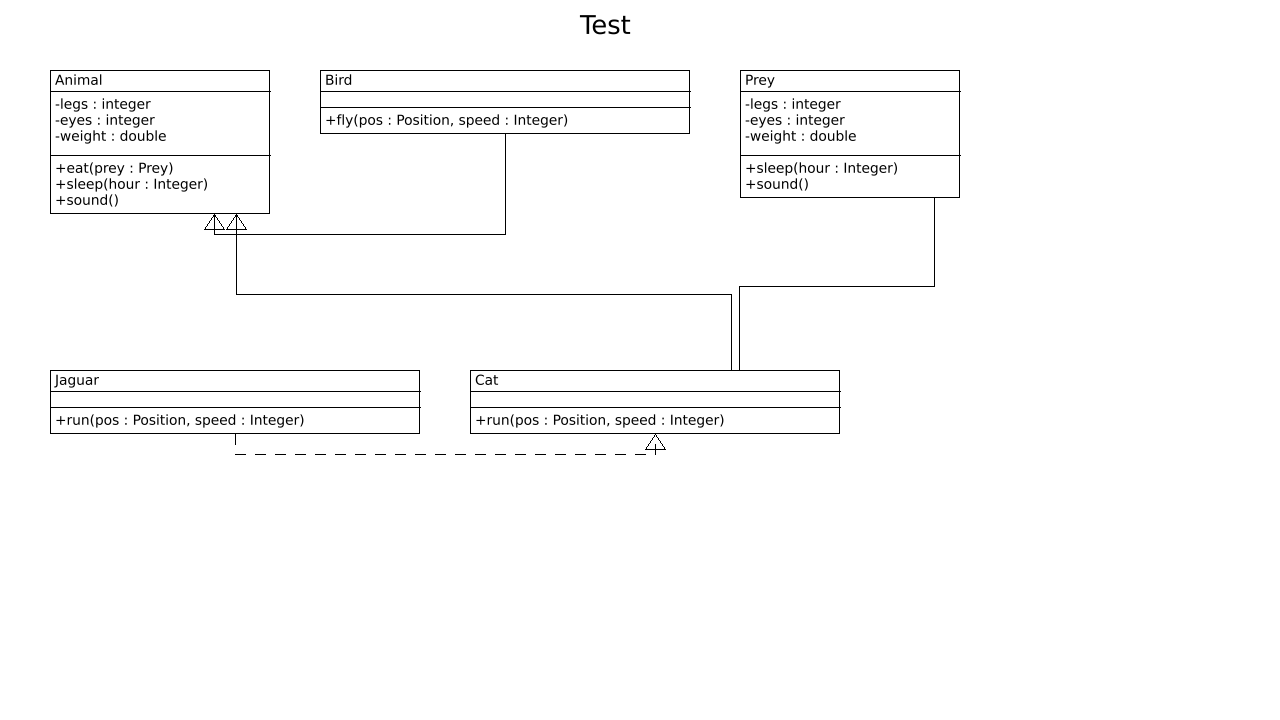
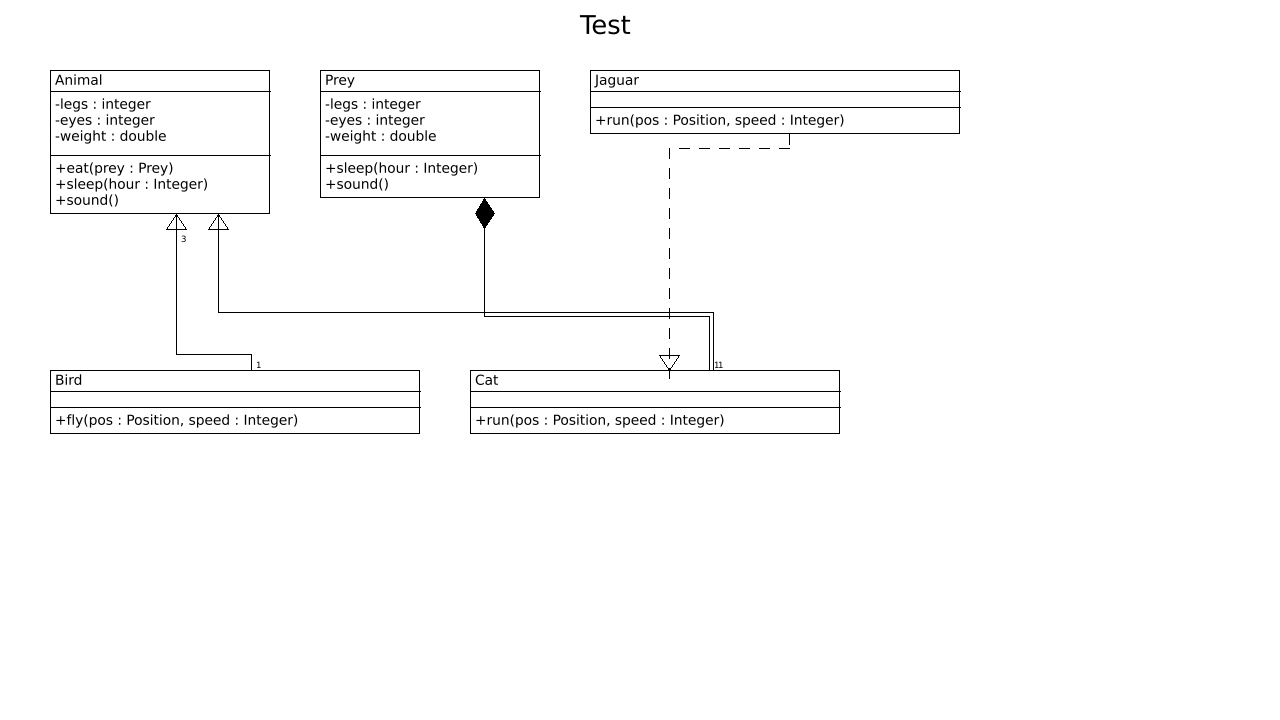
Added multiplicities

diff --git a/src/diagramVisualizer/mod.rs b/src/diagramVisualizer/mod.rs
@@ -76,8 +76,13 @@ enum Direction{
 
 fn drawAssociation(image: &mut RgbImage, association: parser::Relationship, classBoxes: Vec<ClassBox>)
 {
+    let font_data = Vec::from(include_bytes!("DejaVuSans.ttf") as &[u8]);
+    let font = FontCollection::from_bytes(font_data).unwrap().into_font().unwrap();
+
+    let mut size = 10.0;
+    let mut scale = Scale { x: size, y: size };
+
     let num = rand::thread_rng().gen_range(0, 100);
-    println!("{}", num);
     let mut fromBox: ClassBox = ClassBox::new("".to_string(), Point::new(0,0), 0, 0, 0, 0);
     let mut toBox: ClassBox = ClassBox::new("".to_string(), Point::new(0,0), 0, 0, 0, 0);
 
@@ -92,26 +97,33 @@ fn drawAssociation(image: &mut RgbImage, association: parser::Relationship, clas
                                 toBox.start.y + toBox.box_height);
 
     if(fromBox.start.y == toBox.start.y){
-        from = Point::new(fromBox.start.x +fromBox.box_width/2,
+        from = Point::new(fromBox.start.x + fromBox.box_width/2,
                                     fromBox.start.y + fromBox.box_height);
         to = Point::new(toBox.start.x + toBox.box_width/2 + num,
                                     toBox.start.y + toBox.box_height);
 
         if(fromBox.box_height > toBox.box_height){
+            draw_text_mut(image, Rgb([0u8, 0u8, 0u8]), from.x + 5, from.y + 5, scale, &font, &association.class.multiplicity.to_string());
+
             draw_line_segment_mut(image, (from.x as f32, from.y as f32),
                                     (from.x as f32, from.y as f32 + 20.0), Rgb([0u8, 0u8, 0u8]));
             draw_line_segment_mut(image, (from.x as f32, from.y as f32 + 20.0),
                                     (to.x as f32, from.y as f32 + 20.0), Rgb([0u8, 0u8, 0u8]));
             draw_line_segment_mut(image, (to.x as f32, from.y as f32 + 20.0),
                                     (to.x as f32, to.y as f32), Rgb([0u8, 0u8, 0u8]));
+            draw_text_mut(image, Rgb([0u8, 0u8, 0u8]), to.x + 5, to.y + 5, scale, &font, &association.to_class.multiplicity.to_string());
+
         }
         else{
+            draw_text_mut(image, Rgb([0u8, 0u8, 0u8]), from.x + 5, from.y + 5, scale, &font, &association.class.multiplicity.to_string());
+
             draw_line_segment_mut(image, (from.x as f32, from.y as f32),
                                     (from.x as f32, to.y as f32 + 20.0), Rgb([0u8, 0u8, 0u8]));
             draw_line_segment_mut(image, (from.x as f32, to.y as f32 + 20.0),
                                     (to.x as f32, to.y as f32 + 20.0), Rgb([0u8, 0u8, 0u8]));
             draw_line_segment_mut(image, (to.x as f32, to.y as f32 + 20.0),
                                     (to.x as f32, to.y as f32), Rgb([0u8, 0u8, 0u8]));
+            draw_text_mut(image, Rgb([0u8, 0u8, 0u8]), to.x + 5, to.y + 5, scale, &font, &association.to_class.multiplicity.to_string());
         }
 
         if(association.relation_type == "association") {}
@@ -126,17 +138,20 @@ fn drawAssociation(image: &mut RgbImage, association: parser::Relationship, clas
                                     fromBox.start.y + fromBox.box_height);
         to = Point::new(toBox.start.x + toBox.box_width/2 + num,
                                     toBox.start.y);
+        draw_text_mut(image, Rgb([0u8, 0u8, 0u8]), from.x + 5, from.y + 5, scale, &font, &association.class.multiplicity.to_string());
+
         draw_line_segment_mut(image, (from.x as f32, from.y as f32),
-                                (from.x as f32, from.y as f32 + 150.0), Rgb([0u8, 0u8, 0u8]));
-        draw_line_segment_mut(image, (from.x as f32, from.y as f32 + 150.0),
-                                (to.x as f32, from.y as f32 + 150.0), Rgb([0u8, 0u8, 0u8]));
-        draw_line_segment_mut(image, (to.x as f32, from.y as f32 + 150.0),
+                                (from.x as f32, from.y as f32 + num as f32), Rgb([0u8, 0u8, 0u8]));
+        draw_line_segment_mut(image, (from.x as f32, from.y as f32 + num as f32),
+                                (to.x as f32, from.y as f32 + num as f32), Rgb([0u8, 0u8, 0u8]));
+        draw_line_segment_mut(image, (to.x as f32, from.y as f32 + num as f32),
                                 (to.x as f32, to.y as f32), Rgb([0u8, 0u8, 0u8]));
+        draw_text_mut(image, Rgb([0u8, 0u8, 0u8]), to.x + 5, to.y + 5, scale, &font, &association.to_class.multiplicity.to_string());
+
         if(association.relation_type == "association") {}
         else if (association.relation_type == "aggregation") { draw_aggregation_arrow(image, to.clone(), Direction::down);}
         else if (association.relation_type == "composition") {draw_composition_arrow(image, to.clone(), Direction::down)}
         else if (association.relation_type == "inheritance") { draw_inheritanceArrow(image, to.clone(), Direction::down);}
-        else if (association.relation_type == "implementation") {}
         else if (association.relation_type == "dependency") {drawArrow(image, to.clone(), Direction::up);}
     }
     else if (fromBox.start.y > toBox.start.y){
@@ -144,17 +159,20 @@ fn drawAssociation(image: &mut RgbImage, association: parser::Relationship, clas
                                     fromBox.start.y);
         to = Point::new(toBox.start.x + toBox.box_width/2 + num,
                                     toBox.start.y + toBox.box_height);
+        draw_text_mut(image, Rgb([0u8, 0u8, 0u8]), from.x + 5, from.y - 10, scale, &font, &association.class.multiplicity.to_string());
+        draw_text_mut(image, Rgb([0u8, 0u8, 0u8]), to.x + 5, to.y + 20, scale, &font, &association.to_class.multiplicity.to_string());
+
         draw_line_segment_mut(image, (from.x as f32, from.y as f32),
                                 (from.x as f32, from.y as f32 - num as f32), Rgb([0u8, 0u8, 0u8]));
         draw_line_segment_mut(image, (from.x as f32, from.y as f32 - num as f32),
                                 (to.x as f32, from.y as f32 - num as f32), Rgb([0u8, 0u8, 0u8]));
         draw_line_segment_mut(image, (to.x as f32, from.y as f32 - num as f32),
                                 (to.x as f32, to.y as f32), Rgb([0u8, 0u8, 0u8]));
+
         if(association.relation_type == "association") {}
         else if (association.relation_type == "aggregation") { draw_aggregation_arrow(image, to.clone(), Direction::up);}
         else if (association.relation_type == "composition") {draw_composition_arrow(image, to.clone(), Direction::up)}
         else if (association.relation_type == "inheritance") { draw_inheritanceArrow(image, to.clone(), Direction::up);}
-        else if (association.relation_type == "implementation") {}
         else if (association.relation_type == "dependency") {drawArrow(image, to.clone(), Direction::up);}
     }
 }
@@ -162,6 +180,8 @@ fn drawAssociation(image: &mut RgbImage, association: parser::Relationship, clas
 fn drawAssociation_dashed(image: &mut RgbImage, association: parser::Relationship, classBoxes: Vec<ClassBox>){
     let mut fromBox: ClassBox = ClassBox::new("".to_string(), Point::new(0,0), 0, 0, 0, 0);
     let mut toBox: ClassBox = ClassBox::new("".to_string(), Point::new(0,0), 0, 0, 0, 0);
+
+    let num = rand::thread_rng().gen_range(0, 100);
 
     for classBox in classBoxes{
         if classBox.name == association.class.name{ fromBox = classBox.clone(); }
@@ -174,9 +194,9 @@ fn drawAssociation_dashed(image: &mut RgbImage, association: parser::Relationshi
                                 toBox.start.y + toBox.box_height);
 
     if(fromBox.start.y == toBox.start.y){
-        from = Point::new(fromBox.start.x +fromBox.box_width/2,
+        from = Point::new(fromBox.start.x +fromBox.box_width/2 + num,
                                     fromBox.start.y + fromBox.box_height);
-        to = Point::new(toBox.start.x + toBox.box_width/2,
+        to = Point::new(toBox.start.x + toBox.box_width/2 + num,
                                     toBox.start.y + toBox.box_height);
 
         if(fromBox.box_height > toBox.box_height){
@@ -198,20 +218,28 @@ fn drawAssociation_dashed(image: &mut RgbImage, association: parser::Relationshi
         draw_inheritanceArrow(image, to.clone(), Direction::up);
     }
     else if (fromBox.start.y < toBox.start.y){
-        from = Point::new(fromBox.start.x +fromBox.box_width/2,
+        from = Point::new(fromBox.start.x +fromBox.box_width/2 + num,
                                     fromBox.start.y + fromBox.box_height);
-        to = Point::new(toBox.start.x + toBox.box_width/2,
+        to = Point::new(toBox.start.x + toBox.box_width/2 + num,
                                     toBox.start.y);
         draw_dashed_line(image, Point::new(from.x, from.y),
+                                Point::new(from.x, from.y + num));
+        draw_dashed_line(image, Point::new(from.x, from.y + num),
+                                Point::new(to.x, from.y + num));
+        draw_dashed_line(image, Point::new(to.x, from.y + num),
                                 Point::new(to.x, to.y));
         draw_inheritanceArrow(image, to.clone(), Direction::down);
     }
     else if (fromBox.start.y > toBox.start.y){
-        from = Point::new(fromBox.start.x + fromBox.box_width/2,
+        from = Point::new(fromBox.start.x + fromBox.box_width/2 + num,
                                     fromBox.start.y);
-        to = Point::new(toBox.start.x + toBox.box_width/2,
+        to = Point::new(toBox.start.x + toBox.box_width/2 + num,
                                     toBox.start.y + toBox.box_height);
         draw_dashed_line(image, Point::new(from.x, from.y),
+                                Point::new(from.x, from.y - num));
+        draw_dashed_line(image, Point::new(from.x, from.y - num),
+                                Point::new(to.x, from.y - num));
+        draw_dashed_line(image, Point::new(to.x, from.y - num),
                                 Point::new(to.x, to.y));
         draw_inheritanceArrow(image, to.clone(), Direction::up);
 
@@ -314,33 +342,6 @@ fn draw_aggregation_arrow(image: &mut RgbImage, point: Point, direction: Directi
             draw_line_segment_mut(image, (point.x as f32, point.y as f32),
                                     (point.x as f32 + 10.0, point.y as f32 + 15.0), Rgb([0u8, 0u8, 0u8]));
             draw_line_segment_mut(image, (point.x as f32 - 10.0, point.y as f32 + 15.0),
-                                    (point.x as f32 + 10.0, point.y as f32 + 15.0), Rgb([0u8, 0u8, 0u8]));
-                            },
-        Direction::down =>{
-            draw_line_segment_mut(image, (point.x as f32, point.y as f32),
-                                    (point.x as f32 + 10.0, point.y as f32 - 15.0), Rgb([0u8, 0u8, 0u8]));
-            draw_line_segment_mut(image, (point.x as f32, point.y as f32),
-                                    (point.x as f32 - 10.0, point.y as f32 - 15.0), Rgb([0u8, 0u8, 0u8]));
-            draw_line_segment_mut(image, (point.x as f32 + 10.0, point.y as f32 - 15.0),
-                                    (point.x as f32 - 10.0, point.y as f32 - 15.0), Rgb([0u8, 0u8, 0u8]));
-                                },
-        Direction::to_left =>{
-
-        },
-        Direction::to_right =>{
-
-        },
-    }
-}
-
-fn draw_composition_arrow(image: &mut RgbImage, point: Point, direction: Direction){
-    match direction{
-        Direction::up =>{
-            draw_line_segment_mut(image, (point.x as f32, point.y as f32),
-                                    (point.x as f32 - 10.0, point.y as f32 + 15.0), Rgb([0u8, 0u8, 0u8]));
-            draw_line_segment_mut(image, (point.x as f32, point.y as f32),
-                                    (point.x as f32 + 10.0, point.y as f32 + 15.0), Rgb([0u8, 0u8, 0u8]));
-            draw_line_segment_mut(image, (point.x as f32 - 10.0, point.y as f32 + 15.0),
                                     (point.x as f32, point.y as f32 + 30.0), Rgb([0u8, 0u8, 0u8]));
             draw_line_segment_mut(image, (point.x as f32 + 10.0, point.y as f32 + 15.0),
                                     (point.x as f32, point.y as f32 + 30.0), Rgb([0u8, 0u8, 0u8]));
@@ -354,6 +355,46 @@ fn draw_composition_arrow(image: &mut RgbImage, point: Point, direction: Directi
                                     (point.x as f32, point.y as f32 - 30.0), Rgb([0u8, 0u8, 0u8]));
             draw_line_segment_mut(image, (point.x as f32 - 10.0, point.y as f32 - 15.0),
                                     (point.x as f32, point.y as f32 - 30.0), Rgb([0u8, 0u8, 0u8]));
+                                },
+        Direction::to_left =>{
+
+        },
+        Direction::to_right =>{
+
+        },
+    }
+}
+
+fn draw_composition_arrow(image: &mut RgbImage, point: Point, direction: Direction){
+    match direction{
+        Direction::up =>{
+            let mut point_x = point.x + 10;
+            while point_x > point.x{
+            draw_line_segment_mut(image, (point.x as f32, point.y as f32),
+                                    (point_x as f32 - 10.0, point.y as f32 + 15.0), Rgb([0u8, 0u8, 0u8]));
+            draw_line_segment_mut(image, (point.x as f32, point.y as f32),
+                                    (point_x as f32, point.y as f32 + 15.0), Rgb([0u8, 0u8, 0u8]));
+            draw_line_segment_mut(image, (point_x as f32 - 10.0, point.y as f32 + 15.0),
+                                    (point.x as f32, point.y as f32 + 30.0), Rgb([0u8, 0u8, 0u8]));
+            draw_line_segment_mut(image, (point_x as f32, point.y as f32 + 15.0),
+                                    (point.x as f32, point.y as f32 + 30.0), Rgb([0u8, 0u8, 0u8]));
+            point_x = point_x - 1;
+                                }
+                            },
+        Direction::down =>{
+            let mut point_x = point.x + 10;
+            while point_x > point.x{
+            draw_line_segment_mut(image, (point.x as f32, point.y as f32),
+                                    (point_x as f32, point.y as f32 - 15.0), Rgb([0u8, 0u8, 0u8]));
+            draw_line_segment_mut(image, (point.x as f32, point.y as f32),
+                                    (point_x as f32 - 10.0, point.y as f32 - 15.0), Rgb([0u8, 0u8, 0u8]));
+            draw_line_segment_mut(image, (point_x as f32, point.y as f32 - 15.0),
+                                    (point.x as f32, point.y as f32 - 30.0), Rgb([0u8, 0u8, 0u8]));
+            draw_line_segment_mut(image, (point_x as f32 - 10.0, point.y as f32 - 15.0),
+                                    (point.x as f32, point.y as f32 - 30.0), Rgb([0u8, 0u8, 0u8]));
+
+            point_x = point_x -1;
+                                }
                                 },
         Direction::to_left =>{
 
